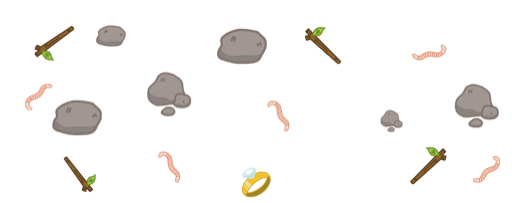
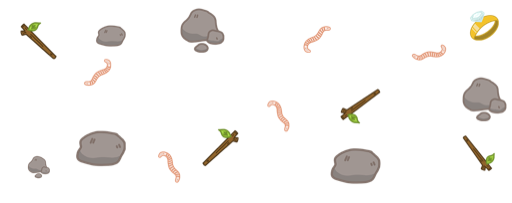
d

diff --git a/sketch.js b/sketch.js
@@ -4,15 +4,15 @@ let layout = [];
 let images;
 function preload (){
   for(let i = 0; i <= 3; i++){
-    layout[i] = loadImage(`Layouts/layout_${i}.JPG`);
+    layout[i] = loadImage(`Layouts/layout_0.PNG`);
   }
 }
 function setup() {
   createCanvas(1260,500);
-  background(209, 162, 98);
   strokeWeight(5);
   console.log(layout);
   imageMode(CENTER);
+  background(209, 162, 98);
 
   button = select('#genButton')
   button.position(560,200);
@@ -28,22 +28,27 @@ function draw() {
     noErase();
     pop();
   }
+  if(animating == true){
+    clear();
+    image(layout[0], width/2, height/2);
+  }
 }
+
 function keyTyped() {
   if (key === 's') {
-    saveCanvas('Untitled', 'png');
+    saveCanvas('Untitled', 'jpg');
 }
     return false;
   }
-function doubleClicked() {
-  if (animating == true){
-  setTimeout(randomizer,500);
-  }
-}
-function randomizer(){
-  // animating = false
- if(animating == true){
-   clear();
-   image(layout[i], width/2, height/2);
- }
- }
+// function doubleClicked() {
+//   if (animating == true){
+//   setTimeout(randomizer,500);
+//   }
+// }
+// function randomizer(){
+//   animating = false
+//  if(animating == true){
+//    clear();
+//    image(layout[0], width/2, height/2);
+//  }
+//  }

diff --git a/index.html b/index.html
@@ -12,9 +12,10 @@
 <script src="sketch.js"></script>
 
 <body>
+    <!-- <h3 image="(layout[0], width/2, height/2)"</h3> -->
   <h1 style="background-color:lightgreen;text-align:center">Get Diggin</h1>
-  <!-- <h3 style="background-color:tomato;text-align:center">Press "d" to display</h3> -->
   <h3 style="background-color:brown;text-align:center">Press "s" to save</h3>
+
 
 
 </body>
